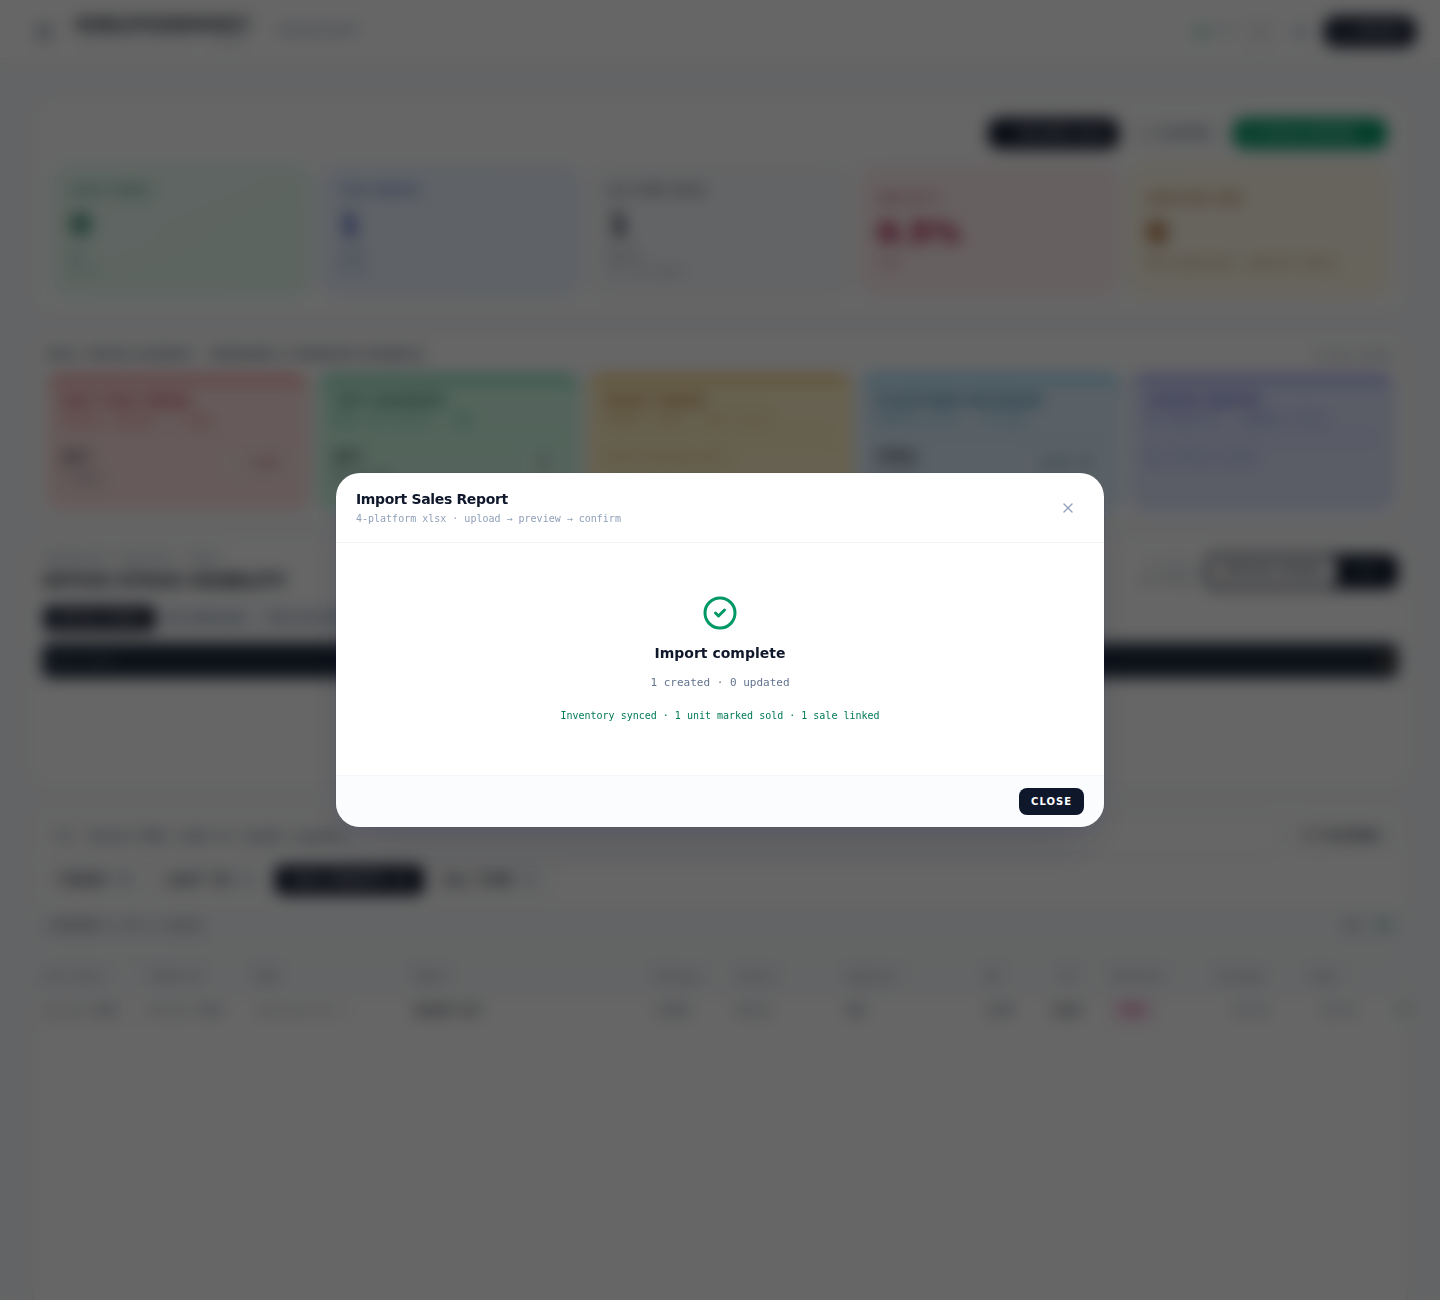
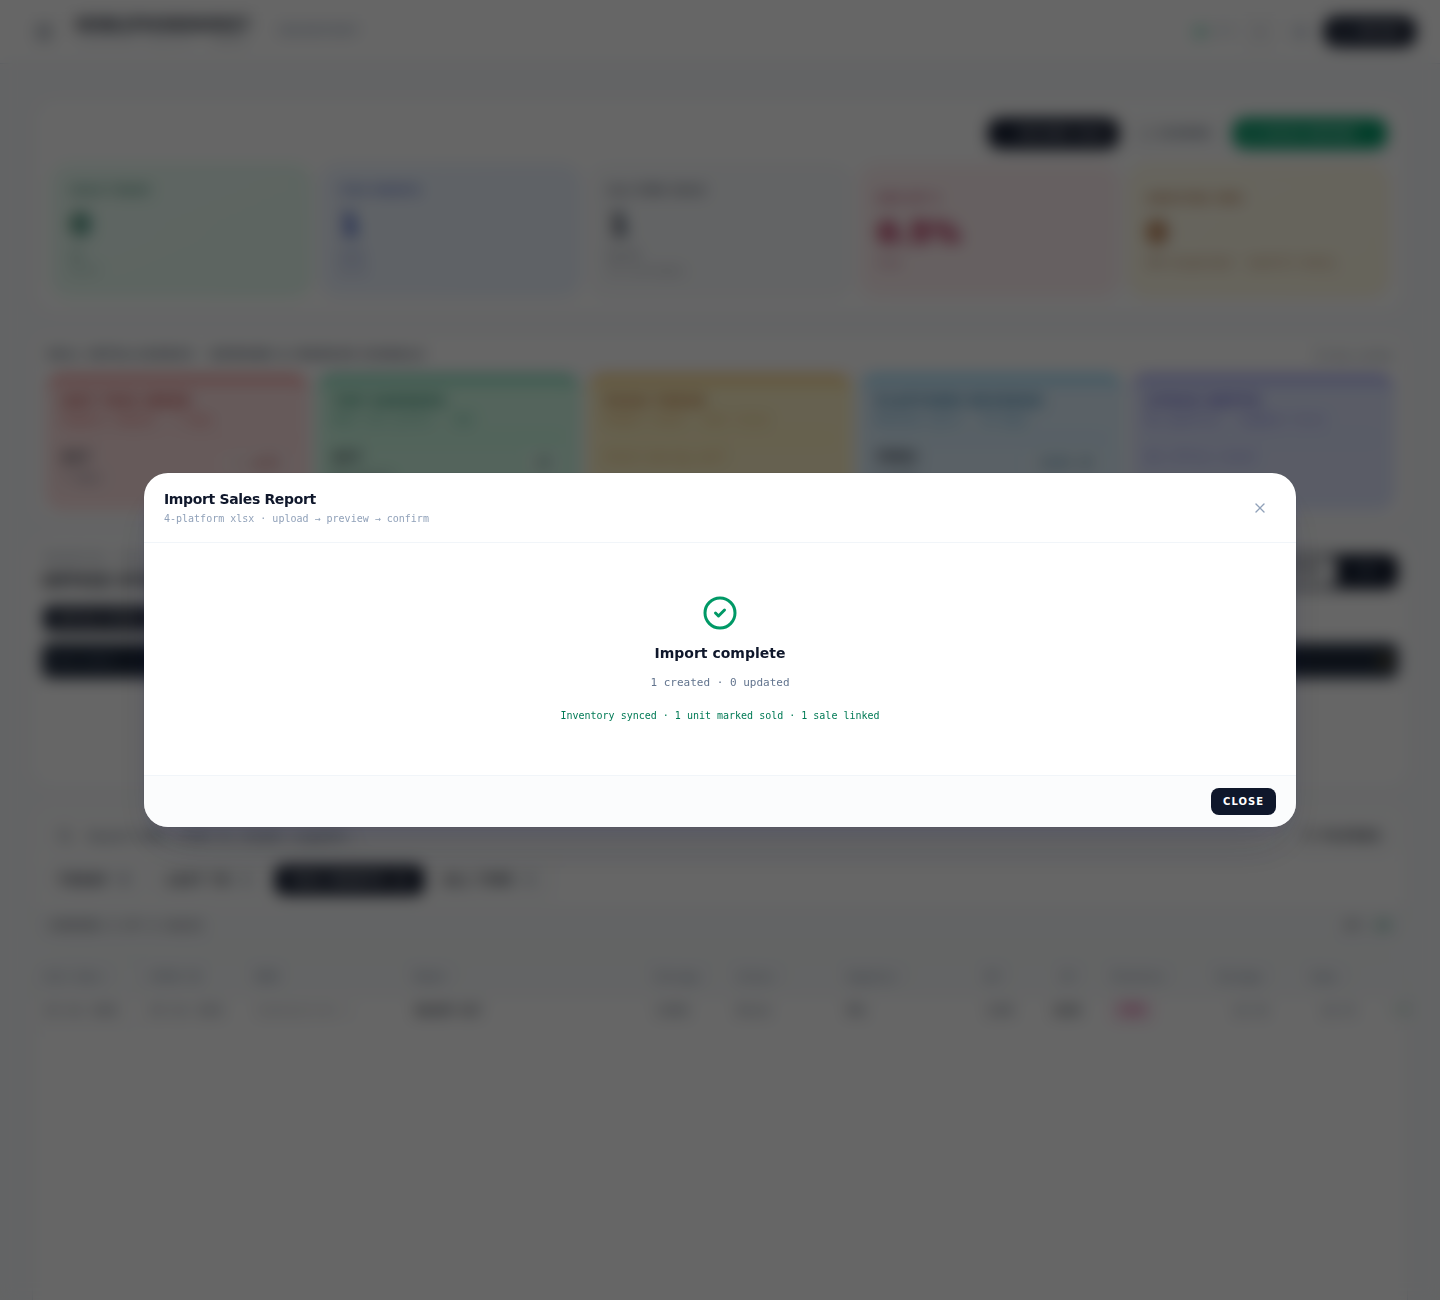
Widen the sales-audit modal, add SIM Type to orphan rows, and sync newly-created models live across rows
The Import Sales Report completion modal was capped at 768px and cramped
even before adding a column; widened to 1152px with a taller scroll area.

SIM Type was missing end-to-end on the audit-completion flow: no field on
the row, no field on either write path (addSoldUnitFromSale,
completeUnitBuyInfo), so it was never asked for and never saved. Added it
throughout.

A model created via "+Add" on one orphan row was written to Firestore but
never surfaced to any other row's picker in the same import — each row
built its device catalog independently with an empty seed list. Lifted
model creation into shared state at the PreviewPhase level so a model
created anywhere in the current session is immediately searchable on
every row, not just the one it was created from.

Claude-Session: https://claude.ai/code/session_01T4LurPsVU5WNa1i8str9pz

Changed region(s): [[0.6875, 0.3385, 0.9062, 0.6462], [0.0938, 0.3385, 0.3438, 0.6462]]

diff --git a/src/components/SalesReportImport.tsx b/src/components/SalesReportImport.tsx
@@ -29,6 +29,7 @@ import { parseSalesWorkbook, type ParsedSales } from '../lib/salesImport';
 import { buildPostImportSyncPatches } from '../services/salesService';
 import { addSoldUnitFromSale, completeUnitBuyInfo, reconcileShsAfterFulfilment } from '../services/inventoryService';
 import { normalizeOperatorSku } from '../lib/modelStorage';
+import { SIM_TYPE_OPTIONS } from '../lib/unitConstants';
 import { auth, isAdmin } from '../lib/firebase';
 import DeviceComboBox from './DeviceComboBox';
 import { buildSupplierIndex, resolveSupplier } from '../lib/supplierIdentity';
@@ -102,6 +103,7 @@ export interface AuditCompletionRow {
   model: string;
   colour: string;
   storage: string;
+  simType: string;
   supplierName: string;
   buyPrice: number;
   /** Per-unit fulfilment source — operator picks Office Stock or SHS so the
@@ -291,6 +293,7 @@ export function buildPreview(
     const buyPrice = matched?.buyPrice ?? s.buyPrice ?? 0;
     const colour = matched?.colour && matched.colour !== 'Unknown' ? matched.colour : '';
     const storage = matched?.storage || '';
+    const simType = matched?.simType || '';
 
     const missing = auditRowMissing({
       imei: s.imei || '', model, supplierName, buyPrice,
@@ -316,6 +319,7 @@ export function buildPreview(
       model,
       colour,
       storage,
+      simType,
       supplierName,
       buyPrice,
       // Matched units (IMEI already in inventory) are office stock by
@@ -542,6 +546,7 @@ export default function SalesReportImport({ onClose }: Props) {
               model: row.model.trim(),
               colour: row.colour.trim() || undefined,
               storage: row.storage.trim() || undefined,
+              simType: row.simType.trim() || undefined,
               supplierName: row.supplierName.trim(),
               buyPrice: row.buyPrice,
               stockSource: row.stockSource,
@@ -558,6 +563,7 @@ export default function SalesReportImport({ onClose }: Props) {
               model: row.model.trim(),
               colour: row.colour.trim() || undefined,
               storage: row.storage.trim() || undefined,
+              simType: row.simType.trim() || undefined,
               supplierName: row.supplierName.trim(),
               buyPrice: row.buyPrice,
               stockSource: row.stockSource,
@@ -654,7 +660,7 @@ export default function SalesReportImport({ onClose }: Props) {
         initial={{ y: 30, opacity: 0 }} animate={{ y: 0, opacity: 1 }} exit={{ y: 30, opacity: 0 }}
         transition={{ type: 'spring', damping: 28, stiffness: 300 }}
         onClick={e => e.stopPropagation()}
-        className="bg-white w-full md:max-w-3xl rounded-t-3xl md:rounded-3xl shadow-2xl flex flex-col overflow-hidden"
+        className="bg-white w-full md:max-w-6xl rounded-t-3xl md:rounded-3xl shadow-2xl flex flex-col overflow-hidden"
         style={{ maxHeight: 'calc(100dvh - 24px)' }}
       >
         {/* Header */}
@@ -1006,13 +1012,40 @@ function PreviewPhase({
   // bucket's models (or the combined catalog) lets an operator pick
   // "Galaxy A32 · 88 in stock" for a row marked SHS when none of those 88
   // are SHS holdings at all, which is exactly the mismatch that made the
-  // stock-count badges meaningless. Admin-curated seeds (no real stock in
-  // either bucket) are dropped from this picker for the same reason —
-  // when neither bucket has the model, the picker shows nothing rather
-  // than a seed that can't reconcile against anything, and the operator
-  // falls through to the existing "+ Add" / "ask an admin" empty state.
+  // stock-count badges meaningless. Pre-existing admin seeds (no real
+  // stock in either bucket) are dropped from every row's picker for the
+  // same reason — when neither bucket has the model, the picker shows
+  // nothing rather than a seed that can't reconcile against anything,
+  // and the operator falls through to the "+ Add" / "ask an admin" empty
+  // state below.
   const officeUnits = useMemo(() => units.filter(u => u.status === 'available'), [units]);
   const shsUnits = useMemo(() => units.filter(u => u.status === 'incoming'), [units]);
+
+  // Models created via "+ Add" DURING this import session — tracked
+  // separately from the (deliberately excluded) pre-existing admin
+  // seeds above. A batch of orphan sales often needs the same brand-new
+  // model on several rows; creating it once in row A must make it
+  // pickable in row B immediately, not just leave it sitting in row A's
+  // own input. Passed as `seeds` to every row below, on top of that
+  // row's own office/SHS unit filter.
+  const [justCreatedModels, setJustCreatedModels] = useState<
+    import('../lib/deviceCatalog').ModelSeed[]
+  >([]);
+  const createModel = isAdmin ? async (draft: { brand: string; model: string }) => {
+    const id = `model_${Date.now()}_${Math.random().toString(36).slice(2, 7)}`;
+    await dbService.create('models', id, {
+      brand: draft.brand,
+      model: draft.model,
+      ownerId: 'shared',
+      createdAt: new Date().toISOString(),
+      createdBy: auth.currentUser?.email || 'admin',
+    });
+    setJustCreatedModels(prev => [...prev, { id, brand: draft.brand, model: draft.model }]);
+    return {
+      brand: draft.brand, model: draft.model, count: 0, latestDateIn: '',
+      storages: [], colours: [], source: 'seed' as const,
+    };
+  } : undefined;
 
   return (
     <div className="space-y-3">
@@ -1198,16 +1231,17 @@ function PreviewPhase({
           </div>
 
           <div className="bg-white border border-orange-200 rounded-xl overflow-hidden">
-            <div className="px-3 py-1.5 border-b border-orange-100 text-[9px] font-mono uppercase tracking-widest text-orange-900 bg-orange-50/60 grid grid-cols-12 gap-2">
+            <div className="px-3 py-1.5 border-b border-orange-100 text-[9px] font-mono uppercase tracking-widest text-orange-900 bg-orange-50/60 grid grid-cols-14 gap-2">
               <span className="col-span-3">IMEI · Source · Order</span>
               <span className="col-span-3">Model</span>
               <span className="col-span-1">Colour</span>
               <span className="col-span-1">Storage</span>
+              <span className="col-span-2">SIM Type</span>
               <span className="col-span-2">Supplier</span>
               <span className="col-span-1 text-right">BP £</span>
               <span className="col-span-1 text-right">SP £</span>
             </div>
-            <ul className="max-h-72 overflow-auto divide-y divide-orange-50 text-[11px]">
+            <ul className="max-h-[32rem] overflow-auto divide-y divide-orange-50 text-[11px]">
               {auditEdits.map(o => {
                 const missing = auditRowMissing(o);
                 const rowIncomplete = missing.length > 0;
@@ -1215,7 +1249,7 @@ function PreviewPhase({
                 return (
                   <li
                     key={o.saleId}
-                    className={`px-3 py-1.5 grid grid-cols-12 gap-2 items-center ${rowIncomplete ? 'bg-rose-50/70' : ''}`}
+                    className={`px-3 py-1.5 grid grid-cols-14 gap-2 items-center ${rowIncomplete ? 'bg-rose-50/70' : ''}`}
                   >
                     <span className="col-span-3 min-w-0">
                       <span className="flex items-center gap-1">
@@ -1273,7 +1307,7 @@ function PreviewPhase({
                     <div className={`col-span-3 ${!o.model.trim() ? 'rounded ring-1 ring-rose-400 bg-rose-50' : ''}`}>
                       <DeviceComboBox
                         units={o.stockSource === 'shs' ? shsUnits : officeUnits}
-                        seeds={[]}
+                        seeds={justCreatedModels}
                         strict
                         isAdmin={isAdmin}
                         brand=""
@@ -1284,17 +1318,7 @@ function PreviewPhase({
                           ...(!o.storage && entry.storages?.[0] ? { storage: entry.storages[0] } : {}),
                           ...((!o.colour || o.colour === 'Unknown') && entry.colours?.[0] ? { colour: entry.colours[0] } : {}),
                         })}
-                        onCreateModel={isAdmin ? async draft => {
-                          const id = `model_${Date.now()}_${Math.random().toString(36).slice(2, 7)}`;
-                          await dbService.create('models', id, {
-                            brand: draft.brand,
-                            model: draft.model,
-                            ownerId: 'shared',
-                            createdAt: new Date().toISOString(),
-                            createdBy: auth.currentUser?.email || 'admin',
-                          });
-                          return { brand: draft.brand, model: draft.model, count: 0, latestDateIn: '', storages: [], colours: [], source: 'seed' as const };
-                        } : undefined}
+                        onCreateModel={createModel}
                         placeholder="Search model…"
                         inputClassName="w-full border border-slate-200 rounded px-1.5 py-1 text-[10px] focus:outline-none focus:border-orange-500"
                       />
@@ -1324,6 +1348,22 @@ function PreviewPhase({
                         <option value={o.storage}>{o.storage}</option>
                       )}
                       {STORAGE_OPTIONS.map(s => <option key={s} value={s}>{s}</option>)}
+                    </select>
+                    {/* SIM Type — optional, same as the Inventory Report import
+                        schema. Not a completion blocker (auditRowMissing
+                        doesn't check it) but a unit created from this screen
+                        used to skip it entirely, unlike every other intake
+                        path (Add Stock, Bulk Order, Inventory Report). */}
+                    <select
+                      className="col-span-2 border border-slate-200 rounded px-1 py-1 text-[10px] focus:outline-none focus:border-orange-500 bg-white"
+                      value={o.simType}
+                      onChange={e => onAuditEdit(o.saleId, { simType: e.target.value })}
+                    >
+                      <option value="">—</option>
+                      {o.simType && !SIM_TYPE_OPTIONS.includes(o.simType as any) && (
+                        <option value={o.simType}>{o.simType}</option>
+                      )}
+                      {SIM_TYPE_OPTIONS.map(s => <option key={s} value={s}>{s}</option>)}
                     </select>
                     <input
                       className={`col-span-2 border rounded px-1.5 py-1 text-[10px] focus:outline-none focus:border-orange-500 ${!o.supplierName.trim() ? 'border-rose-400 bg-rose-50' : 'border-slate-200'}`}

diff --git a/src/services/inventoryService.ts b/src/services/inventoryService.ts
@@ -598,6 +598,7 @@ export interface AddSoldUnitFromSaleInput {
   supplierName?: string;
   colour?: string;
   storage?: string;
+  simType?: string;
   /** Fulfilment source — office stock or SHS (supplier-held). Defaults to
    *  'office'. Persisted so the sold unit stays filterable as SHS. */
   stockSource?: 'office' | 'shs';
@@ -689,6 +690,7 @@ export async function addSoldUnitFromSale(
     category,
     colour: (input.colour ?? '').trim() || 'Unknown',
     ...(storage ? { storage } : {}),
+    ...((input.simType ?? '').trim() ? { simType: (input.simType ?? '').trim() } : {}),
     ...(parsed.series ? ({ series: parsed.series } as any) : {}),
     ...(sale.sku ? { sku: sale.sku } : {}),
     buyPrice: bp,
@@ -772,6 +774,7 @@ export interface CompleteUnitBuyInfoInput {
   buyPrice: number;
   colour?: string;
   storage?: string;
+  simType?: string;
   /** Fulfilment source — office stock or SHS. Persisted on the unit. */
   stockSource?: 'office' | 'shs';
 }
@@ -821,6 +824,7 @@ export async function completeUnitBuyInfo(
       category,
       ...(input.colour?.trim() ? { colour: input.colour.trim() } : {}),
       ...(storage ? { storage } : {}),
+      ...(input.simType?.trim() ? { simType: input.simType.trim() } : {}),
       ...(parsed.series ? ({ series: parsed.series } as any) : {}),
       ...(input.stockSource ? { stockSource: input.stockSource } : {}),
       supplierId,
